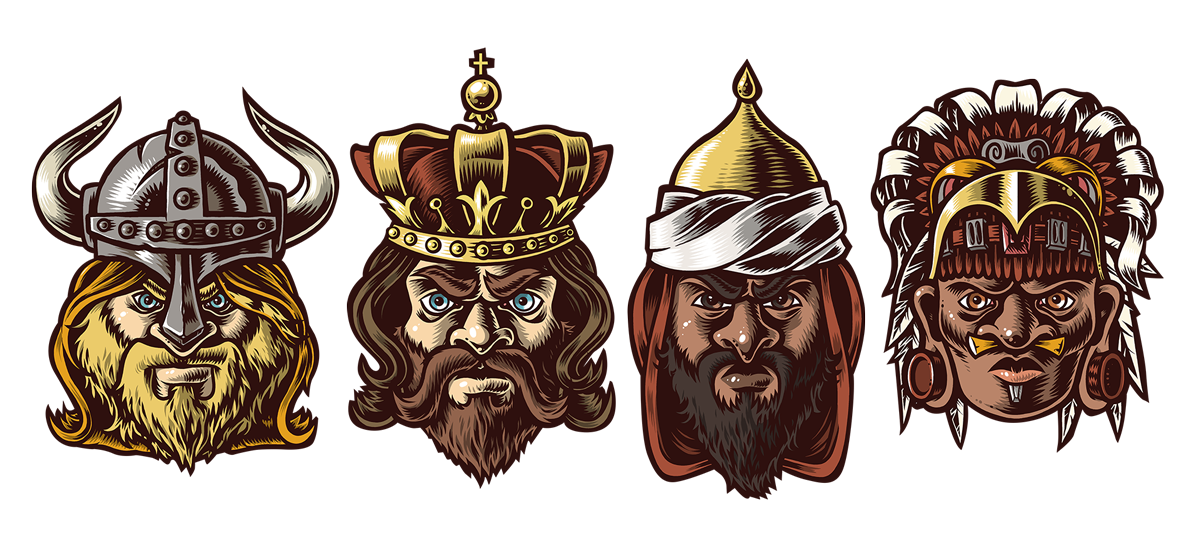
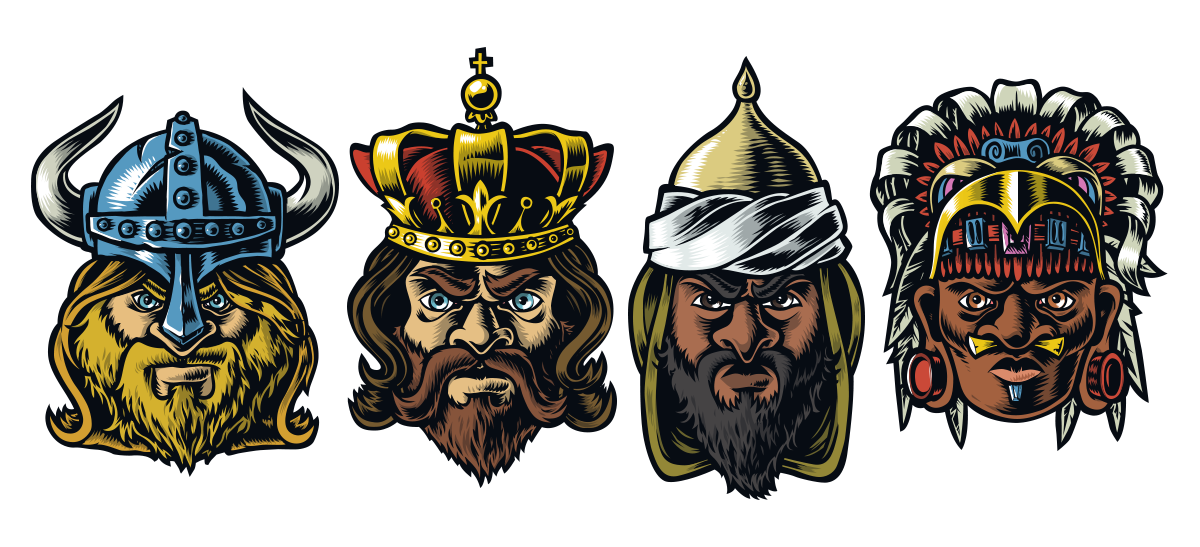
Updating color changes and images

diff --git a/index.html b/index.html
@@ -24,7 +24,7 @@
                 	<center><h1>Bad Royale<img src="images/text_logo.png" class="img-responsive logo animated flipInX"></h1></center>
                 </div>
                 <div class="col-sm-12">
-                	<center><img src="images/kingdumb_final_logo.png" class="img-responsive kings animated fadeInUp"></center>
+                	<center><img src="images/badroyale_king_heads.png" class="img-responsive kings animated fadeInUp"></center>
                 </div>
             </div>
         </div>

diff --git a/css/style.css b/css/style.css
@@ -6,7 +6,7 @@ body {
 	font-family: 'Coming Soon', 'cursive';
 }
 .main {
-	background: #2e100e;
+	background: #070c13;
 	opacity: 0.8;
 }
 .main h1 {
